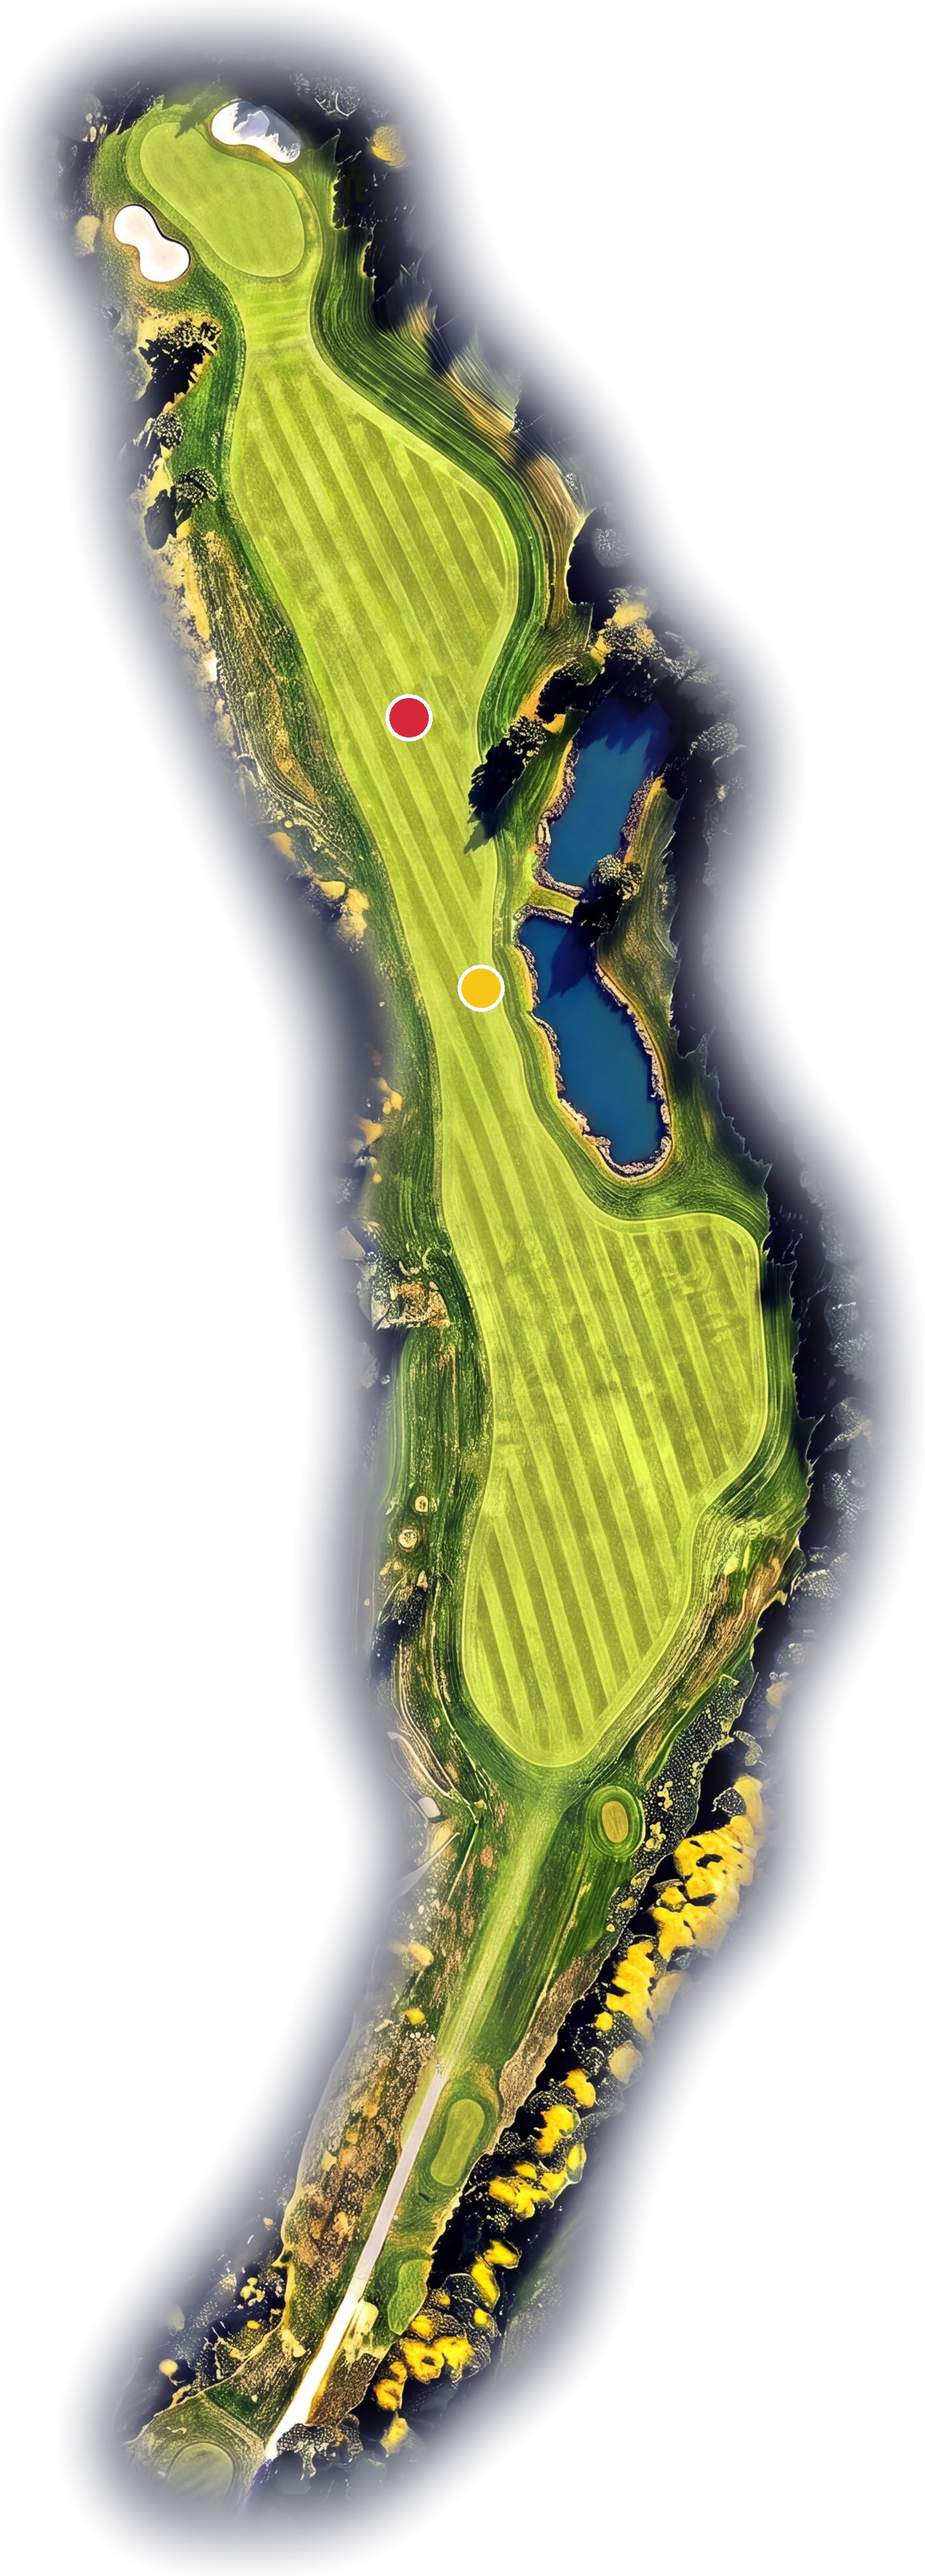
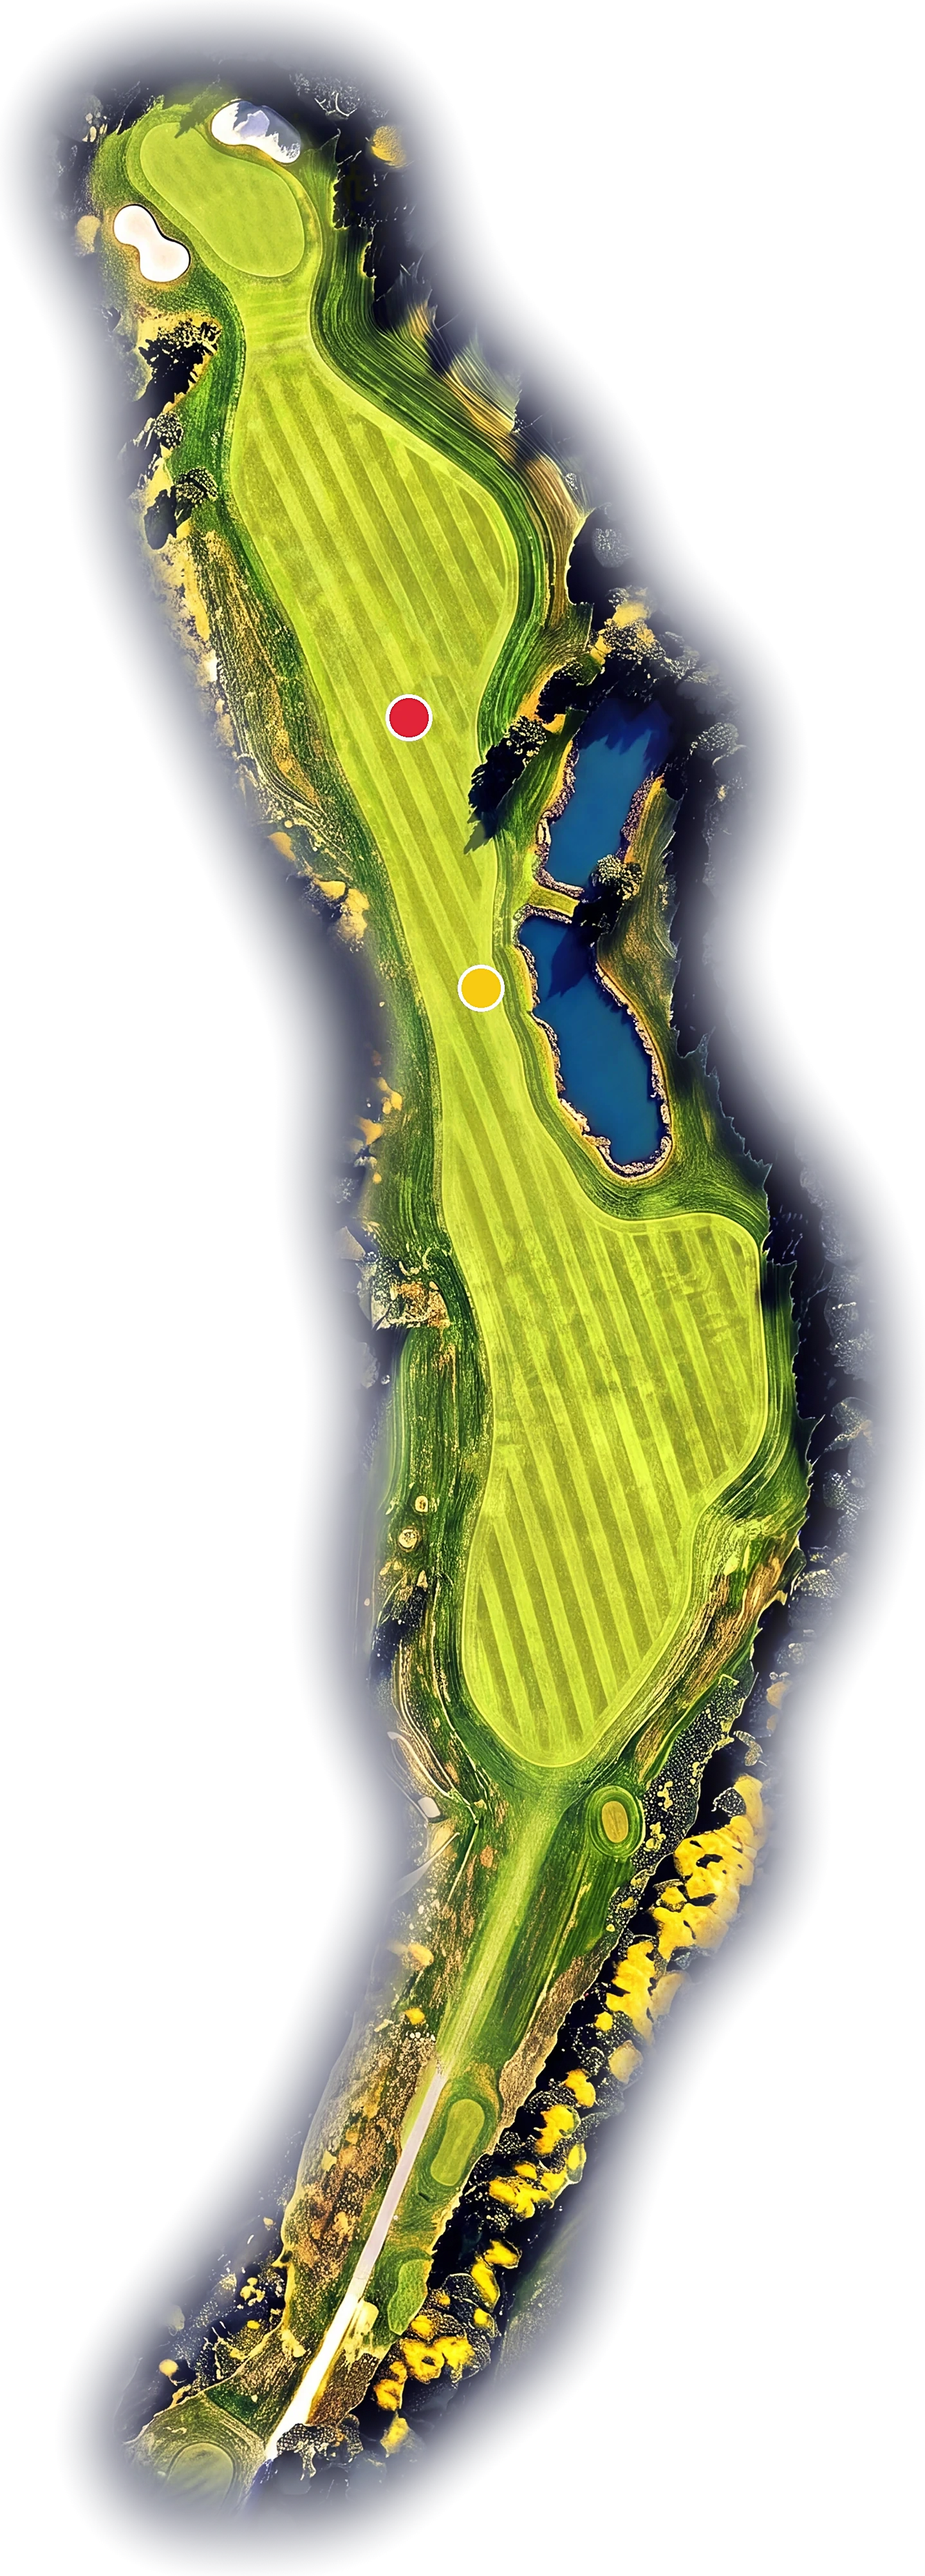
Glasriket: alla 18 hål i förfinad stil A (perfekt foto)
Eric 2026-11-01 godkände receptet från hål 14 och bad om samma på resten.
- AI putsar bara ytan (nano-banana, låst inramning); formpoäng 0,70–0,93.
- verktyg/liva_upp.py: färglyft (vibrance, S-kurva, skärpa), bara färg.
- verktyg/farg_harmoni.py: jämnar gräsets kulör mot hål 14 inom spelytan
  ur hålfilen (hål 3, 6, 7, 8, 13, 18).
- Hålkorten pekar på hal-NN-a6.webp. Recept i docs/halproduktion.md.

Claude-Session: https://claude.ai/code/session_016FkcALaStwXk29HGLfwsBZ

diff --git a/verktyg/farg_harmoni.py b/verktyg/farg_harmoni.py
@@ -1,0 +1,116 @@
+"""Färgharmoni: gör gräsets kulör lika på alla hål i en serie (bara färg, aldrig form).
+
+AI-målningen ger ibland ett hål en gulare eller blekare grön ton än de andra.
+Verktyget mäter medelkulör och mättnad på det ljusa gräset och flyttar dem en
+bit mot ett referenshål (standard hål 14, som Eric godkände 2026-11-01).
+Bara spelytan ändras (fairway, tees, green och 15 m runt greenen ur hålfilen);
+skog, ruff, sand, vatten, prickar och mörk bakgrund lämnas orörda.
+
+    python verktyg/farg_harmoni.py klubbar/glasriket/hal-03.yaml [fler] --namn a6 [--ref 14] [--andel 0.8]
+"""
+from __future__ import annotations
+
+import argparse
+import sys
+from pathlib import Path
+
+import numpy as np
+from PIL import Image
+
+sys.path.insert(0, str(Path(__file__).resolve().parents[1]))
+import verktyg.orto_utsnitt  # noqa: E402,F401
+from golfholes.hole import Hole  # noqa: E402
+from golfholes.render.foto import fotounderlag, orto_for  # noqa: E402
+from verktyg.fairway_frisk import _blur, prickmask, spelyta  # noqa: E402
+from verktyg.skuggskydd import _mask  # noqa: E402
+
+
+def _hsv(rgb):
+    mx = rgb.max(-1); mn = rgb.min(-1); d = mx - mn
+    h = np.zeros_like(mx)
+    r, g, b = rgb[..., 0], rgb[..., 1], rgb[..., 2]
+    m = d > 1e-6
+    rm = m & (mx == r); gm = m & (mx == g) & ~rm; bm = m & ~rm & ~gm
+    h[rm] = ((g - b)[rm] / d[rm]) % 6
+    h[gm] = (b - r)[gm] / d[gm] + 2
+    h[bm] = (r - g)[bm] / d[bm] + 4
+    s = np.where(mx > 1e-6, d / np.maximum(mx, 1e-6), 0)
+    return h * 60, s, mx
+
+
+def _rgb(h, s, v):
+    h = (h % 360) / 60
+    i = np.floor(h).astype(int) % 6
+    f = h - np.floor(h)
+    p, q, t = v * (1 - s), v * (1 - s * f), v * (1 - s * (1 - f))
+    sel = [(v, t, p), (q, v, p), (p, v, t), (p, q, v), (t, p, v), (v, p, q)]
+    out = np.zeros(h.shape + (3,))
+    for k, (a, b, c) in enumerate(sel):
+        m = i == k
+        out[m] = np.stack([a[m], b[m], c[m]], -1)
+    return out
+
+
+def ytmask(im: Image.Image, hole: Hole, px) -> np.ndarray:
+    """0–1: spelytan inkl. greenen, utan prickar och flagga, mjuk kant."""
+    M = spelyta(im, hole, px)
+    green = np.asarray(_mask(im, [hole.green], px, 0), np.float32) / 255
+    M = np.maximum(M, green)
+    rgb = np.asarray(im.convert("RGB"), np.float32)
+    M = M * (~prickmask(rgb))
+    return np.clip(_blur(M, 2), 0, 1)
+
+
+def matt(rgb, w):
+    h, s, _ = _hsv(rgb)
+    w = w * (rgb[..., 1] > rgb[..., 2])  # bara gräs, inte skuggblått
+    return float((h * w).sum() / w.sum()), float((s * w).sum() / w.sum())
+
+
+def las(hf: Path, namn: str, suf: str = ""):
+    hole = Hole.from_yaml(hf)
+    f = hf.parent / "halbilder" / f"hal-{hole.number:02d}-{namn}{suf}.webp"
+    if not f.exists():
+        return None
+    im = Image.open(f).convert("RGBA")
+    _, px = fotounderlag(hole, orto_for(Path("data") / hf.parent.name), im.height)
+    return f, im, ytmask(im, hole, px)
+
+
+def harmonisera(im, w, mal_h, mal_s, andel=0.8):
+    a = np.asarray(im).astype(np.float32) / 255
+    rgb, alfa = a[..., :3], a[..., 3:]
+    eg_h, eg_s = matt(rgb, w)
+    dh = (mal_h - eg_h) * andel
+    ks = 1 + (mal_s / eg_s - 1) * andel
+    h, s, v = _hsv(rgb)
+    ny = _rgb(h + dh, np.clip(s * ks, 0, 1), v)
+    w3 = w[..., None]
+    ut = rgb * (1 - w3) + ny * w3
+    return Image.fromarray((np.concatenate([ut, alfa], -1) * 255).round().astype(np.uint8), "RGBA"), dh, ks
+
+
+def main():
+    ap = argparse.ArgumentParser()
+    ap.add_argument("hal", nargs="+")
+    ap.add_argument("--namn", default="a6")
+    ap.add_argument("--ref", default="14")
+    ap.add_argument("--andel", type=float, default=0.8)
+    a = ap.parse_args()
+    klubb = Path(a.hal[0]).parent
+    _, rim, rw = las(klubb / f"hal-{a.ref}.yaml", a.namn)
+    mal_h, mal_s = matt(np.asarray(rim.convert("RGB"), np.float32) / 255, rw)
+    print(f"mål (hål {a.ref}): kulör {mal_h:.1f}°, mättnad {mal_s:.2f}")
+    for hf in a.hal:
+        for suf in ("", "-utan-flagga"):
+            r = las(Path(hf), a.namn, suf)
+            if r is None:
+                continue
+            f, im, w = r
+            ny, dh, ks = harmonisera(im, w, mal_h, mal_s, a.andel)
+            ny.save(f, quality=92)
+            print(f"{f} kulör {dh:+.1f}°, mättnad x{ks:.2f}")
+
+
+if __name__ == "__main__":
+    main()

diff --git a/verktyg/liva_upp.py b/verktyg/liva_upp.py
@@ -1,0 +1,56 @@
+"""Lyft en färdig hålbild lite (Eric 2026-11-01: "kan liva upp bilden lite"). Inga krediter, ingen form.
+Vibrans (mättar de dova färgerna mer än de redan starka), en mjuk S-kurva för kontrast och en lätt
+oskarp mask. Dämpas mot den mörka bakgrunden så att kanten inte blir grumlig.
+
+    python verktyg/liva_upp.py klubbar/glasriket/hal-14.yaml [fler] [--namn a6] [--styrka 1.0]
+"""
+from __future__ import annotations
+
+import sys
+from pathlib import Path
+
+import numpy as np
+from PIL import Image, ImageFilter
+
+sys.path.insert(0, str(Path(__file__).resolve().parents[1]))
+from golfholes.hole import Hole  # noqa: E402
+
+
+def liva(im: Image.Image, styrka: float = 1.0) -> Image.Image:
+    a = np.asarray(im.convert("RGBA")).astype(np.float32) / 255
+    rgb, alfa = a[..., :3], a[..., 3:]
+    lum = (rgb * [0.299, 0.587, 0.114]).sum(-1, keepdims=True)
+    mx, mn = rgb.max(-1, keepdims=True), rgb.min(-1, keepdims=True)
+    satt = (mx - mn) / (mx + 1e-4)
+    # vibrans: dova ytor (sunkigt gräs) får mest
+    v = 1 + 0.28 * styrka * (1 - satt)
+    rgb = np.clip(lum + (rgb - lum) * v, 0, 1)
+    # mjuk S-kurva runt mitten
+    k = 0.10 * styrka
+    rgb = rgb + k * np.sin((rgb - 0.5) * np.pi) * 0.5 / np.pi * 2 * (rgb * (1 - rgb)) * 4
+    rgb = np.clip(rgb, 0, 1) ** (1 - 0.05 * styrka)  # lite ljusare mellantoner
+    # bakgrunden (mörkt, omättat) lämnas i fred
+    vikt = np.clip((lum - 0.10) / 0.10, 0, 1)
+    ut = a[..., :3] * (1 - vikt) + rgb * vikt
+    bild = Image.fromarray((np.concatenate([ut, alfa], -1) * 255).astype(np.uint8), "RGBA")
+    return bild.filter(ImageFilter.UnsharpMask(radius=2.0, percent=int(45 * styrka), threshold=2))
+
+
+def kor(hf: Path, namn: str, styrka: float) -> None:
+    n = Hole.from_yaml(hf).number
+    for f in (hf.parent / "halbilder" / f"hal-{n:02d}-{namn}.webp",
+              hf.parent / "halbilder" / f"hal-{n:02d}-{namn}-utan-flagga.webp"):
+        if f.exists():
+            liva(Image.open(f), styrka).save(f, quality=92)
+            print(f, "livad")
+
+
+if __name__ == "__main__":
+    args = sys.argv[1:]
+    namn, styrka = "a6", 1.0
+    if "--namn" in args:
+        i = args.index("--namn"); namn = args[i + 1]; del args[i:i + 2]
+    if "--styrka" in args:
+        i = args.index("--styrka"); styrka = float(args[i + 1]); del args[i:i + 2]
+    for hf in map(Path, args):
+        kor(hf, namn, styrka)

diff --git a/docs/halproduktion.md b/docs/halproduktion.md
@@ -120,7 +120,26 @@ referens ("premium high-end 3D render, ultra crisp…") och/eller en skärpning 
 innan inpassningen. Det andra AI-passet tog bort vassen i dammen på hål 17, så kontrollera vegetation i vatten.
 Uppdateras när Eric valt.
 
-## Stil B · Tecknad bokstil (Eric 2026-10-30, gäller nu för Glasriket)
+## Stil A förfinad · perfekt foto (Eric 2026-11-01, gäller nu för Glasriket)
+
+Eric 2026-10-31: "version A men mer förfinat och putsat så det är ett riktigt foto men där banan ser perfekt ut".
+Prov på hål 1 och 14, sedan alla 18 (1/11: "Kör dessa, som 14"). Filer `halbilder/hal-NN-a6.webp`, hålkorten pekar dit.
+nano-banana-2-1 image2image, 3 bilder per hål, 9:16, 4K, 240 krediter per hål. Underlag: `typbilder/ai-underlag/hal-NN-underlag-lyft-mork.jpg`.
+Början: låst inramning + "Do not add, remove, widen or move anything." Ordagrant resten:
+
+> Only change the surface into a flawless, retouched, photorealistic golf course photograph seen straight from above, the hero image of a luxury golf resort: a perfectly manicured course in tournament condition at golden hour. Warm low late-afternoon sun from the upper right, crisp long cool-blue shadows exactly where the existing shadows are, immaculate vivid green fairway with lime-yellow sunlit highlights and clean, even, alternating light and dark mowing stripes only on the fairway, no worn, brown or patchy grass anywhere, a velvet-smooth brighter green with a crisp darker collar ring, even slightly darker rough, pristine bright white sand with a crisp lip shadow. Trees are Swedish Norway spruce and Scots pine seen from directly above: dense dark-green conical crowns with soft round tops and layered needle texture, NEVER star-shaped, NEVER palm-like, plus birches with small rounded warm golden-green crowns (not neon). Polished, clean, high contrast, sharp micro-detail, rich natural colour, real photograph quality, not painted, not washed out. The surroundings fall off into the dark navy background exactly as now. No text, no people, no flags, no cars. Do not add any path, tee, bunker or building that is not already there.
+
+Hål 17 får dessutom: "The two ponds keep exactly their shorelines and size, the round tree island and the reed bed in the lower pond stay exactly as they are", och vattenfrasen "deep clear blue-green water with a soft warm golden sky reflection and neat reed edges".
+
+Kedja per hål (alla steg bara färg, aldrig form):
+1. `ai_tillbaka_test <hålfil> a6 data/<klubb>/ai-a6/hNN-?.png` väljer bästa formpoäng (krav 0,7).
+2. `fairway_frisk --namn a6` tar bort bruna fläckar, `prick_flytt --namn a6` lägger 100/150-prickarna mitt i fairwayn.
+3. `liva_upp.py <hålfil> --namn a6 --styrka 2.0`: vibrance, S-kurva, ljusare mellantoner och skärpa (Eric: "liva upp bilden lite"). Kör aldrig två gånger på samma bild, effekten adderas.
+4. `farg_harmoni.py <hålfiler> --namn a6 --ref 14`: jämnar gräsets kulör och mättnad mot hål 14 på hål som AI:n gjort gulare eller blekare (bara spelytan ur hålfilen; skog och höstbjörkar rörs inte). Glasriket: hål 3, 6, 7, 8, 13, 18.
+
+Formpoäng Glasriket: 0,70 (17) till 0,93 (8). Hål 17 godkändes efter ögonkontroll (dammar, ö och vass på plats). Hål 1 har en bred fairway (15–30 m) förbi dammarna; klubben bekräftar.
+
+## Stil B · Tecknad bokstil (Eric 2026-10-30, ersatt 2026-11-01 av stil A förfinad)
 
 Alla 18 hål gjorda om i stil B. Samma kedja som stil A, men prompten byter ytan till en tecknad banguide
 (nano-banana-2-1 image2image, 3 bilder per hål, 9:16, 4K, 240 krediter per hål). Ordagrant slut på prompten:

diff --git a/docs/flode.md b/docs/flode.md
@@ -86,5 +86,6 @@
 - [x] Hålkort i stil A (2026-10-27, Eric: alla 18 hål i stil A godkända, klubbchefen får tycka till): `halkort/hal-NN.yaml` pekar på `hal-NN-a5.webp`; alla 18 kort i layout 3 i `/mnt/project-files/glasriket/halkort-stil-a/`. Inlägg och skyltar byggs först när Eric godkänt korten. `kant_tvatt` behåller nu alfakanalen (hål 8 fick annars en ruta bakom hålet på kortet).
 - [x] Fairway i toppskick (2026-10-27, Eric: "ta bort ALLA bruna fläckar i fairway, ändra färg, inte form"): `python verktyg/fairway_frisk.py klubbar/<klubb>/hal-NN.yaml` byter kulör på bruna partier i fairway, tees och inspelet 15 m runt greenen (bunkrar, vatten och träd undantas). Mättnad och ljushet behålls, så klippmönster och kvällsljus ligger kvar. Körs efter `ai_tillbaka_test`/`kant_tvatt`, före `halkort`. Alla 18 kort omgjorda.
 - [x] Stil B · Tecknad på alla 18 Glasriket-hål (Eric 2026-10-30): `halbilder/hal-NN-b5.webp`, hålkorten pekar dit. Hål 7: bunkern bakom green borttagen (klubben har sått gräs). Prompt och lärdomar i `docs/halproduktion.md`. Kopior i projektmappen `glasriket/halkort-stil-b/` och `halbilder-stil-b/`.
+- [x] Stil A förfinad (perfekt foto) på alla 18 Glasriket-hål (Eric 2026-11-01): `halbilder/hal-NN-a6.webp`, hålkorten pekar dit. Färglyft `verktyg/liva_upp.py`, färgjämning mot hål 14 `verktyg/farg_harmoni.py`. Recept i `docs/halproduktion.md`. Kopior i projektmappen `glasriket/halkort-stil-a/` och `halbilder-stil-a/` (gamla a5 i arkiv). Kvar: klubbens OK, hål 1:s fairwaybredd.
 - [x] Avståndsprickar mitt i fairway (Eric 2026-10-29): `avstandspunkt()` i `render/foto.py` flyttar 100/150-prickarna i sidled till mitten av fairway (samma avstånd längs linjen). Färdiga hålbilder: `python verktyg/prick_flytt.py <hålfil>` lagar de gamla prickarna och ritar nya. Hål 1: fairway sammanhängande (tredje polygonen i hålfilen, ur ortofotot, klubben bekräftar), tonad med `verktyg/fairway_ton.py hal-01.yaml 2`. Ordning: ai_tillbaka_test → (fairway_ton) → fairway_frisk → prick_flytt → halkort.
 - [x] Flygfilm standard 15 m (Eric 2026-10-27): `flygfilm`/`kontroll kameror` har nu `--hojd 15 --blick 110` som standard (`STANDARD_HOJD_M` i `golfholes/render/flygfilm.py`). Glasriket: 1–2 visningshål nu, resten efter betalning, klart 2027-03-15. Skill `flygfilm-studio` föreslagen (Eric sparar).
